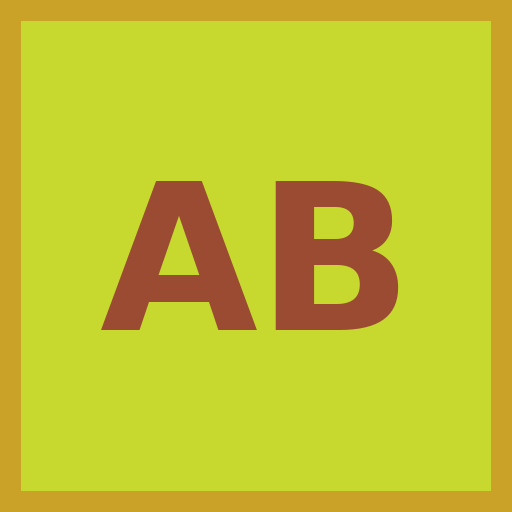
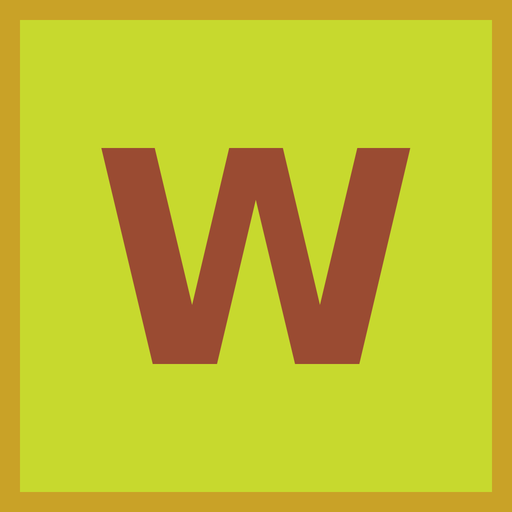
Nouvelle icône WABOUÉ (W) et mise à jour du cache
- icon-192/512 et versions maskable : « W » à la place de « AB », même style
- sw.js : CACHE_NAME v42 pour que les téléphones prennent les changements du nom

Claude-Session: https://claude.ai/code/session_01972thPHFjSUQZYEszha2qc

Changed region(s): [[0.1875, 0.2812, 0.8125, 0.7188]]

diff --git a/sw.js b/sw.js
@@ -2,7 +2,7 @@
 // 1) Garde l'app en cache pour un fonctionnement hors-ligne (réseau d'abord, cache en secours)
 // 2) Reçoit les notifications push et ouvre l'app quand on touche la notification
 // Alexi : change le numéro de CACHE_NAME à chaque nouvelle version pour forcer la mise à jour.
-const CACHE_NAME = 'abuesa-v41';
+const CACHE_NAME = 'abuesa-v42';
 // v4.86 : les photos venant de Supabase sont gardées sur le téléphone (pour ne pas les retélécharger à chaque visite)
 const MEDIA_CACHE = 'abuesa-media-v1';
 const MEDIA_MAX = 150;
